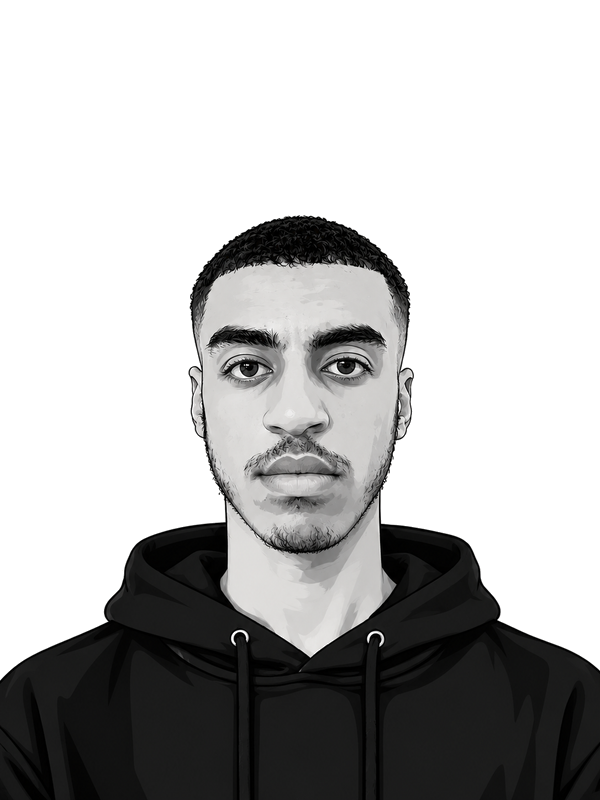
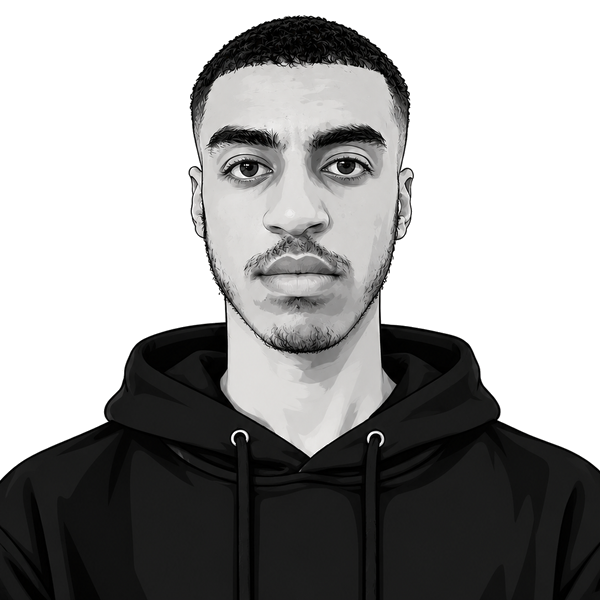
style: enlarge hero portrait, remove excess headroom, layer image over headline with safe pointer events

diff --git a/style.css b/style.css
@@ -147,18 +147,22 @@ nav a:focus-visible {
 /* ─── HERO ─── */
 
 .hero {
-    max-width: 1280px;
+    max-width: 1360px;
     margin: 0 auto;
-    padding: 20px 20px 70px;
+    padding: 20px 24px 70px;
     display: flex;
-    align-items: flex-start;
+    align-items: center;
     justify-content: space-between;
-    gap: 40px;
+    gap: 0;
+    position: relative;
+    overflow: visible;
 }
 
 .hero-content {
-    flex: 1;
+    flex: 1 1 60%;
     min-width: 0;
+    position: relative;
+    z-index: 1;
     padding-top: 10px;
 }
 
@@ -172,7 +176,7 @@ nav a:focus-visible {
 }
 
 .hero h1 {
-    font-size: clamp(40px, 8.5vw, 96px);
+    font-size: clamp(38px, 7.5vw, 92px);
     font-weight: 900;
     line-height: 0.96;
     letter-spacing: -3.5px;
@@ -200,19 +204,24 @@ nav a:focus-visible {
 
 .hero-image {
     flex-shrink: 0;
-    width: clamp(340px, 32vw, 440px);
-    aspect-ratio: 3 / 4;
+    width: clamp(520px, 48vw, 740px);
+    aspect-ratio: 1 / 1;
     background-color: transparent;
     overflow: visible;
-    margin-top: -24px;
-    align-self: flex-start;
+    margin-left: clamp(-180px, -13vw, -80px);
+    margin-top: -35px;
+    position: relative;
+    z-index: 2;
+    pointer-events: none;
+    align-self: center;
 }
 
 .hero-image img {
     width: 100%;
     height: 100%;
     object-fit: contain;
-    object-position: top right;
+    object-position: top center;
+    display: block;
 }
 
 /* ─── HERO BUTTONS ─── */
@@ -222,6 +231,9 @@ nav a:focus-visible {
     flex-wrap: wrap;
     gap: 20px;
     margin-top: 35px;
+    position: relative;
+    z-index: 10;
+    pointer-events: auto;
 }
 
 .hero-buttons a {
@@ -1034,11 +1046,13 @@ footer {
     }
 
     .hero-image {
-        width: min(100%, 280px);
+        width: min(100%, 380px);
         height: auto;
-        aspect-ratio: 3 / 4;
+        aspect-ratio: 1 / 1;
         align-self: center;
-        margin-top: 10px;
+        margin-left: 0;
+        margin-top: 24px;
+        z-index: 1;
     }
 
     .hero h1 {
@@ -1096,9 +1110,12 @@ footer {
     }
 
     .hero-image {
-        width: min(100%, 280px);
-        height: 280px;
+        width: min(100%, 320px);
+        height: auto;
+        aspect-ratio: 1 / 1;
         align-self: center;
+        margin-left: 0;
+        margin-top: 20px;
     }
 
     .about-section {
